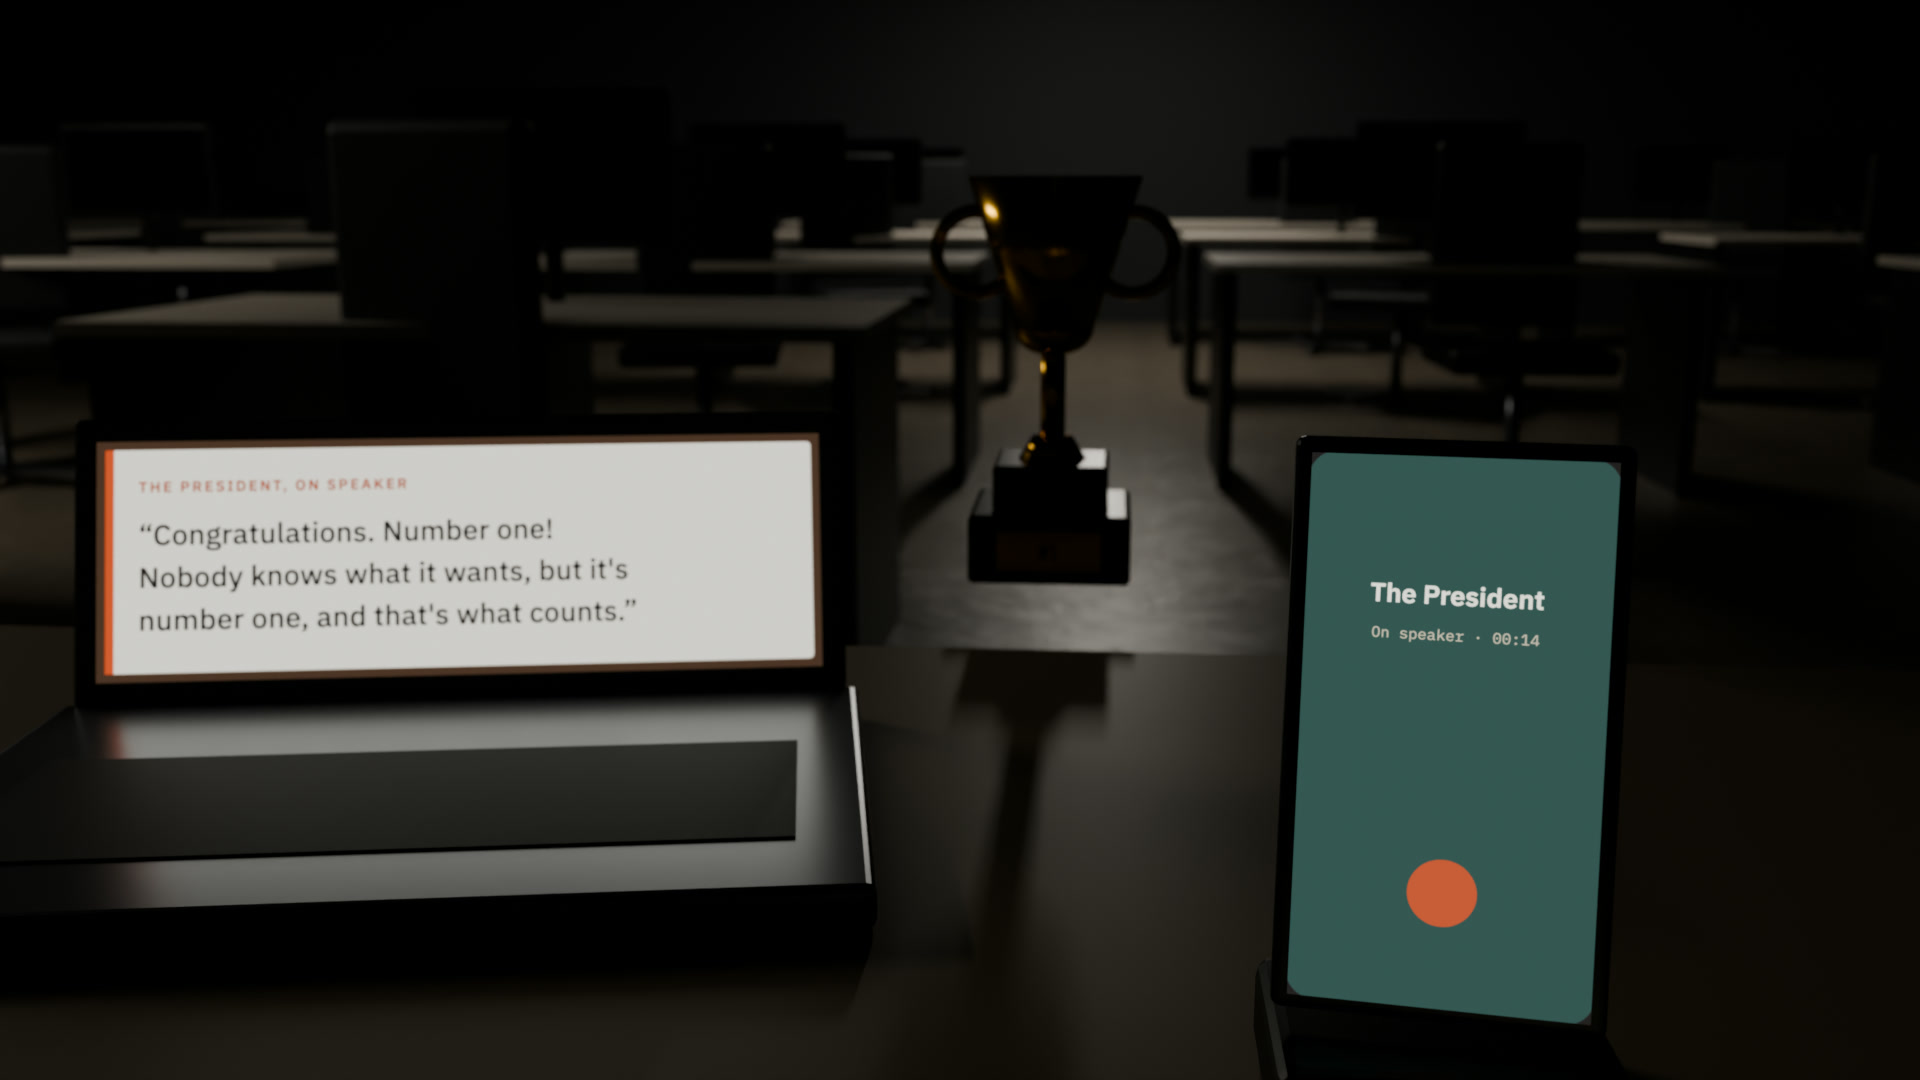
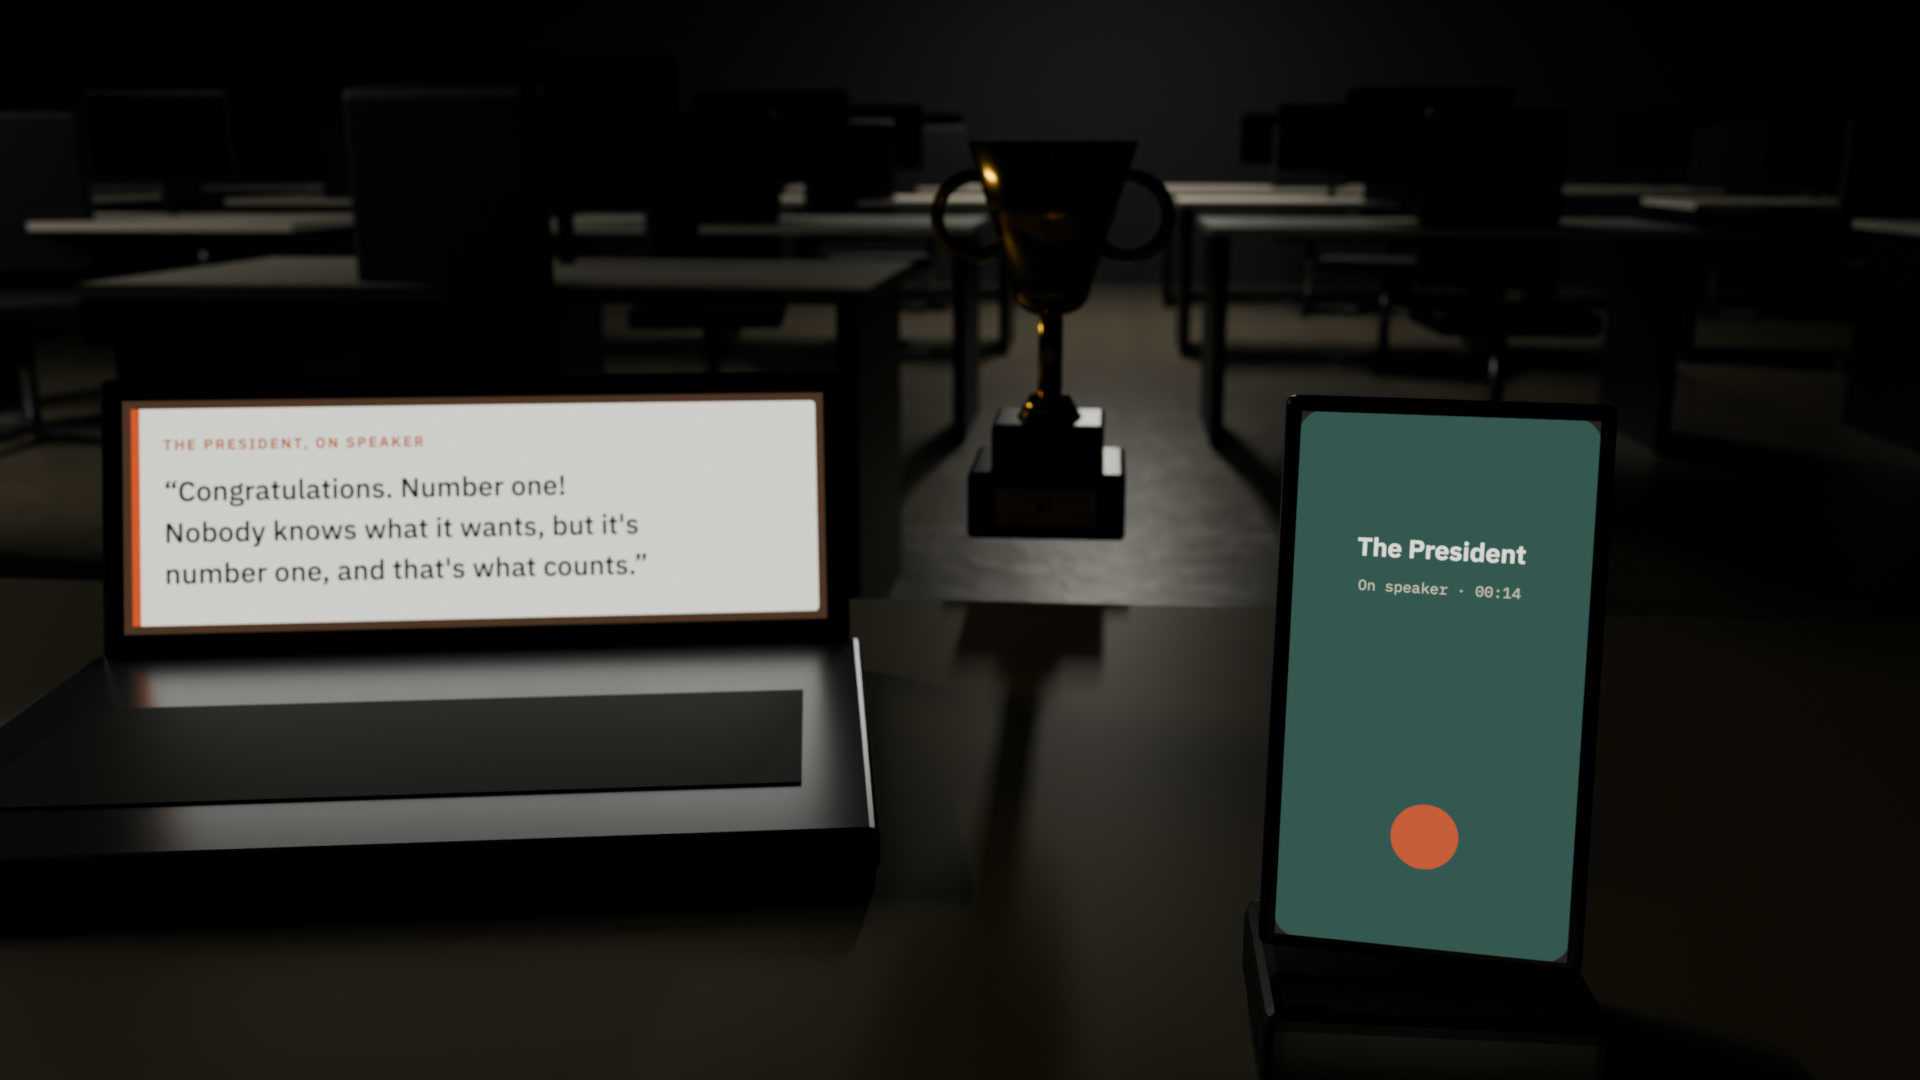
fix(endings): cw-phone framed so the phone and the trophy both sit inside the letterbox band

Changed region(s): [[0.0, 0.1528, 0.8438, 1.0], [0.0, 0.1528, 0.1875, 0.3056], [0.8125, 0.1528, 1.0, 0.2444]]

diff --git a/tools/endings/blender/set_lab.py b/tools/endings/blender/set_lab.py
@@ -255,7 +255,7 @@ def shot_cw_phone():
     F.laptop("captions", (-0.24, 2.1, 0.755), "cw-phone", (512, 192, 676, 226), yaw=10, strength=1.0, width=0.36)
     F.trophy((0.02, 2.62, 0.755), scale=0.8)
     kit.area((0.16, 1.8, 0.9), (0.16, 1.4, 0.76), (0.08, 0.15), 0.8, kit.kelvin(7500))   # the phone's light on the desk
-    kit.camera((0.06, 1.42, 1.03), (0.0, 2.1, 0.885), lens=32, fstop=8.0, focus=(0.0, 1.95, 0.88))
+    kit.camera((0.06, 1.42, 1.03), (0.0, 2.1, 0.866), lens=31, fstop=8.0, focus=(0.0, 1.95, 0.88))
 
 
 def shot_rb_budget():
